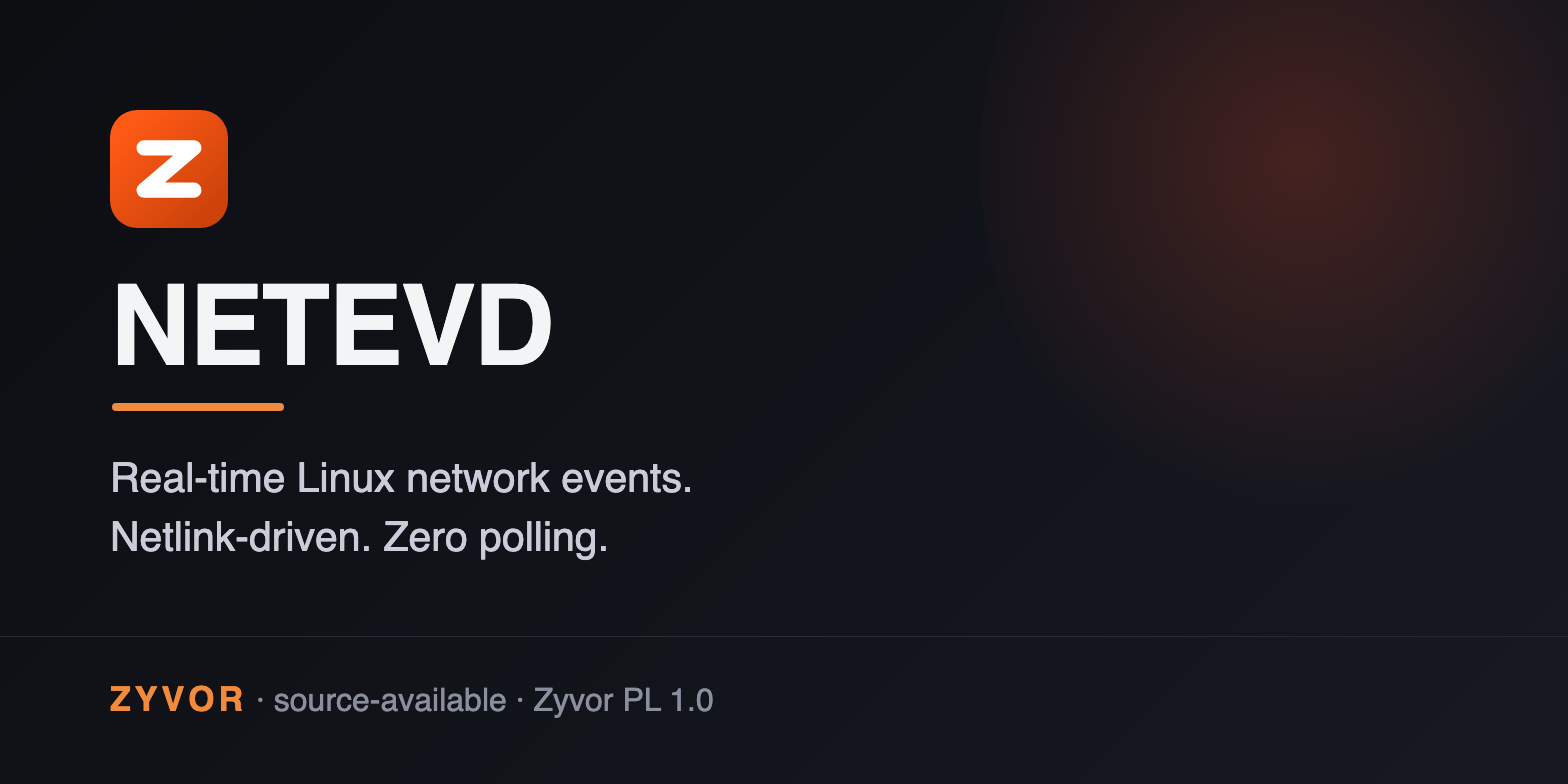
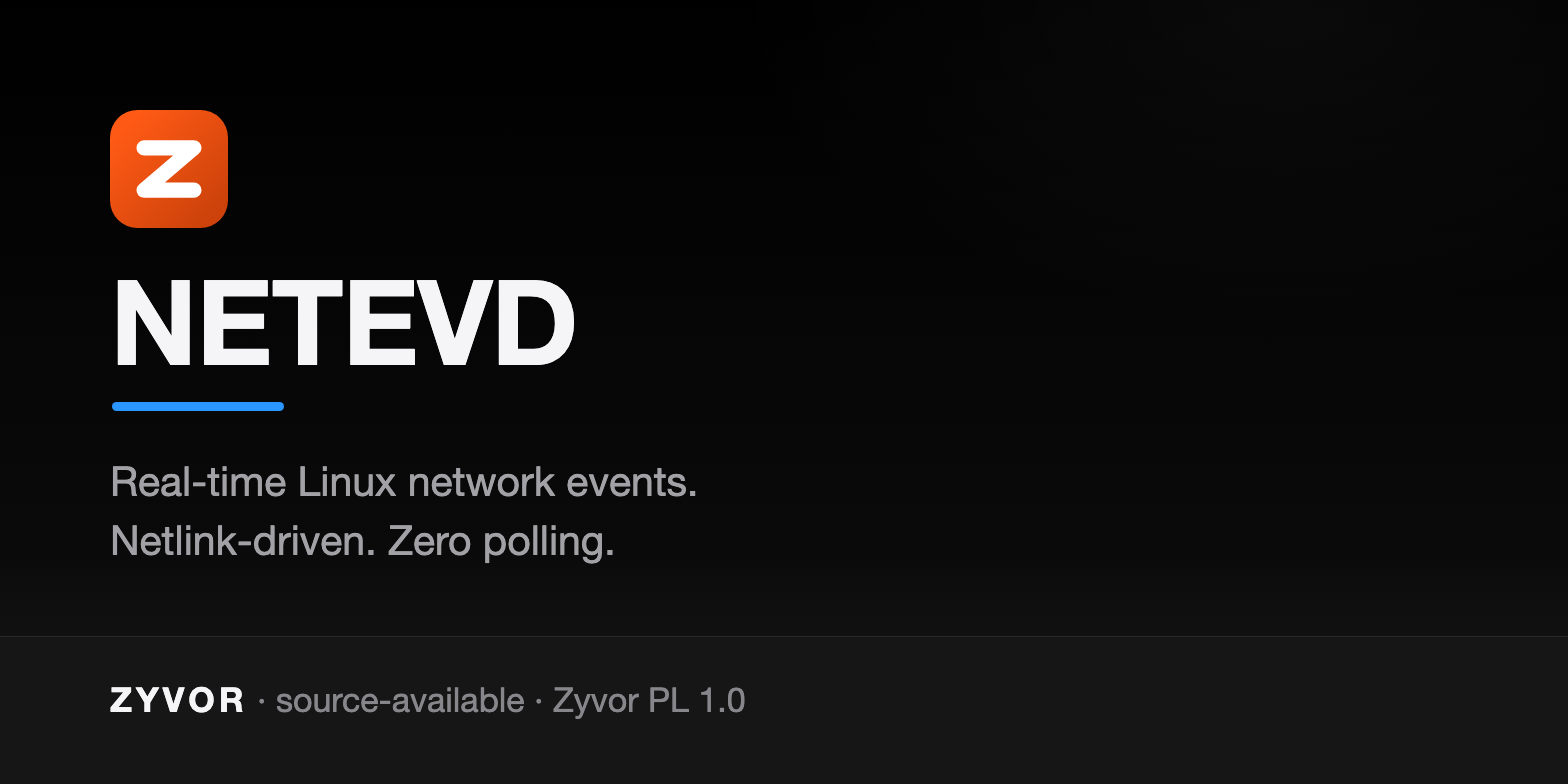
docs: remove community tier, apple-dark social cards

diff --git a/docs/social/netevd-social-card.html b/docs/social/netevd-social-card.html
@@ -4,12 +4,12 @@
 <meta charset="utf-8">
 <title>netevd social card</title>
 <style>
-:root { --ink:#0d0d0c; --soft:#5a544c; --signal:#ff5a15; --deep:#cc420a; --line:#e7ded2; --warm:#fbf7f2; --pale:#fff1e9;
-  --blue:#2b5fd9; --green:#1f7a4d;
+:root { --ink:#f5f5f7; --soft:#86868b; --signal:#2997ff; --btn:#0071e3; --deep:#2997ff; --line:rgba(255,255,255,.08); --warm:#000; --pale:#1d1d1f;
+  --blue:#5e5ce6; --green:#248a3d;
   --sans:'Helvetica Neue',Helvetica,Arial,sans-serif; --mono:'SF Mono',Menlo,Consolas,monospace; }
 * { box-sizing:border-box; }
 html,body { margin:0; padding:0; }
-body { width:1600px; height:900px; overflow:hidden; background:var(--warm); color:var(--ink); font-family:var(--sans); position:relative; }
+body { width:1600px; height:900px; overflow:hidden; background:radial-gradient(900px 520px at 78% 0%,rgba(255,255,255,.04),transparent 62%),#000; color:var(--ink); font-family:var(--sans); position:relative; }
 .bar { position:absolute; left:0; top:0; bottom:0; width:14px; background:var(--signal); }
 .wrap { position:absolute; left:72px; right:64px; top:48px; bottom:40px; display:flex; flex-direction:column; }
 .top { display:flex; align-items:center; gap:14px; font-family:var(--mono); font-size:20px; letter-spacing:.14em; text-transform:uppercase; color:var(--soft); }
@@ -18,9 +18,9 @@ body { width:1600px; height:900px; overflow:hidden; background:var(--warm); colo
 .top .r { margin-left:auto; letter-spacing:.08em; }
 h1 { margin:26px 0 0; font-size:68px; line-height:1.06; letter-spacing:-.025em; font-weight:700; max-width:1440px; }
 h1 em { font-style:normal; color:var(--signal); }
-.sub { margin:16px 0 0; font-size:27px; line-height:1.36; color:#26231f; max-width:1320px; }
+.sub { margin:16px 0 0; font-size:27px; line-height:1.36; color:#a1a1a6; max-width:1320px; }
 .flow { margin-top:34px; display:grid; grid-template-columns:repeat(5,1fr); gap:34px; }
-.step { position:relative; background:#fff; border:2.5px solid var(--c); border-radius:16px; padding:18px 20px 18px 24px; min-height:222px; }
+.step { position:relative; background:#1d1d1f; border:2.5px solid var(--c); border-radius:16px; padding:18px 20px 18px 24px; min-height:222px; }
 .step::before { content:""; position:absolute; left:0; top:0; bottom:0; width:9px; background:var(--c); border-radius:13px 0 0 13px; }
 .step:not(:last-child)::after { content:""; position:absolute; right:-31px; top:50%; width:0; height:0; margin-top:-11px;
   border-left:16px solid var(--soft); border-top:11px solid transparent; border-bottom:11px solid transparent; }
@@ -28,14 +28,14 @@ h1 em { font-style:normal; color:var(--signal); }
 .n { float:right; width:34px; height:34px; border-radius:50%; background:var(--c); color:#fff; font-weight:700; font-size:19px; line-height:34px; text-align:center; }
 .step h3 { margin:14px 0 8px; font-size:27px; line-height:1.14; letter-spacing:-.01em; }
 .step p { margin:0; font-size:20.5px; line-height:1.34; color:var(--soft); }
-.k { --c:var(--signal); } .a { --c:var(--ink); } .c { --c:var(--blue); } .o { --c:var(--green); } .o2 { --c:var(--deep); }
-.attr { margin-top:22px; display:flex; align-items:center; gap:16px; background:var(--ink); color:#f3ede4; border-radius:12px; padding:13px 22px; font-family:var(--mono); font-size:22px; white-space:nowrap; }
+.k { --c:var(--btn); } .a { --c:#86868b; } .c { --c:var(--blue); } .o { --c:var(--green); } .o2 { --c:var(--deep); }
+.attr { margin-top:22px; display:flex; align-items:center; gap:16px; background:#1d1d1f; border:1px solid rgba(255,255,255,.08); color:#f5f5f7; border-radius:12px; padding:13px 22px; font-family:var(--mono); font-size:22px; white-space:nowrap; }
 .attr .tag { color:var(--signal); font-weight:700; letter-spacing:.1em; font-size:16px; }
-.attr .why { margin-left:auto; color:#a39a8d; font-size:15px; letter-spacing:.06em; text-transform:uppercase; }
+.attr .why { margin-left:auto; color:#86868b; font-size:15px; letter-spacing:.06em; text-transform:uppercase; }
 .chips { margin-top:auto; padding-top:22px; display:flex; flex-wrap:wrap; gap:10px; }
-.chip { font-size:20px; font-weight:700; padding:5px 14px; border-radius:20px; background:var(--signal); color:#fff; letter-spacing:.02em; border:2px solid var(--signal); }
-.chip.g { background:#fff; color:var(--deep); border:2px solid var(--signal); }
-.foot { margin-top:18px; padding-top:14px; border-top:3px solid var(--ink); display:flex; align-items:center; font-family:var(--mono); font-size:22px; color:var(--soft); }
+.chip { font-size:20px; font-weight:700; padding:5px 14px; border-radius:20px; background:var(--btn); color:#fff; letter-spacing:.02em; border:2px solid var(--btn); }
+.chip.g { background:#1d1d1f; color:var(--deep); border:2px solid var(--signal); }
+.foot { margin-top:18px; padding-top:14px; border-top:1px solid rgba(255,255,255,.12); display:flex; align-items:center; font-family:var(--mono); font-size:22px; color:var(--soft); }
 .foot b { color:var(--ink); }
 .foot .r { margin-left:auto; }
 </style>

diff --git a/docs/social/netevd-share-card.html b/docs/social/netevd-share-card.html
@@ -4,11 +4,11 @@
 <meta charset="utf-8">
 <title>netevd share card</title>
 <style>
-:root { --ink:#0d0d0c; --soft:#5a544c; --signal:#ff5a15; --deep:#cc420a; --warm:#fbf7f2;
+:root { --ink:#f5f5f7; --soft:#86868b; --signal:#2997ff; --btn:#0071e3; --deep:#2997ff; --warm:#000;
   --sans:'Helvetica Neue',Helvetica,Arial,sans-serif; --mono:'SF Mono',Menlo,Consolas,monospace; }
 * { box-sizing:border-box; }
 html,body { margin:0; padding:0; }
-body { width:1200px; height:630px; overflow:hidden; background:var(--warm); color:var(--ink); font-family:var(--sans); position:relative; }
+body { width:1200px; height:630px; overflow:hidden; background:radial-gradient(900px 520px at 78% 0%,rgba(255,255,255,.04),transparent 62%),#000; color:var(--ink); font-family:var(--sans); position:relative; }
 .bar { position:absolute; left:0; top:0; bottom:0; width:12px; background:var(--signal); }
 .wrap { position:absolute; left:56px; right:48px; top:40px; bottom:36px; display:flex; flex-direction:column; }
 .top { display:flex; align-items:center; gap:12px; font-family:var(--mono); font-size:18px; letter-spacing:.14em; text-transform:uppercase; color:var(--soft); }
@@ -17,11 +17,11 @@ body { width:1200px; height:630px; overflow:hidden; background:var(--warm); colo
 .top .r { margin-left:auto; letter-spacing:.08em; }
 h1 { margin:36px 0 0; font-size:52px; line-height:1.08; letter-spacing:-.025em; font-weight:700; max-width:1080px; }
 h1 em { font-style:normal; color:var(--signal); }
-.sub { margin:18px 0 0; font-size:24px; line-height:1.4; color:#26231f; max-width:980px; }
+.sub { margin:18px 0 0; font-size:24px; line-height:1.4; color:#a1a1a6; max-width:980px; }
 .chips { margin-top:auto; display:flex; flex-wrap:wrap; gap:10px; padding-bottom:18px; }
-.chip { font-size:18px; font-weight:700; padding:6px 14px; border-radius:20px; background:var(--signal); color:#fff; border:2px solid var(--signal); }
-.chip.g { background:#fff; color:var(--deep); border:2px solid var(--signal); }
-.foot { padding-top:14px; border-top:3px solid var(--ink); display:flex; align-items:center; font-family:var(--mono); font-size:20px; color:var(--soft); }
+.chip { font-size:18px; font-weight:700; padding:6px 14px; border-radius:20px; background:var(--btn); color:#fff; border:2px solid var(--btn); }
+.chip.g { background:#1d1d1f; color:var(--deep); border:2px solid var(--signal); }
+.foot { padding-top:14px; border-top:1px solid rgba(255,255,255,.12); display:flex; align-items:center; font-family:var(--mono); font-size:20px; color:var(--soft); }
 .foot b { color:var(--ink); }
 .foot .r { margin-left:auto; }
 </style>

diff --git a/docs/social/netevd-preview.html b/docs/social/netevd-preview.html
@@ -1,0 +1,21 @@
+<!doctype html>
+<html lang="en"><head><meta charset="utf-8"><title>NETEVD social preview</title>
+<style>
+* { box-sizing:border-box; }
+html,body { margin:0; padding:0; }
+body { width:1568px; height:784px; overflow:hidden; position:relative; color:#f5f5f7;
+  font-family:'Helvetica Neue',Helvetica,Arial,sans-serif;
+  background:radial-gradient(900px 520px at 82% 0%,rgba(255,255,255,.04),transparent 62%),linear-gradient(180deg,#000 0%,#0a0a0b 70%,#1d1d1f 100%); }
+.mark { position:absolute; left:110px; top:110px; width:118px; height:118px; }
+h1 { position:absolute; left:110px; top:262px; margin:0; font-size:118px; line-height:1; font-weight:700; letter-spacing:-.01em; }
+.rule { position:absolute; left:112px; top:402px; width:172px; height:9px; border-radius:5px; background:#2997ff; }
+p { position:absolute; left:110px; top:452px; margin:0; font-size:41px; line-height:59px; color:#a1a1a6; }
+.foot { position:absolute; left:0; right:0; bottom:0; height:148px; border-top:1px solid rgba(255,255,255,.08); background:#161617; }
+.foot div { position:absolute; left:110px; top:42px; font-size:34px; color:#86868b; }
+.foot b { color:#f5f5f7; letter-spacing:.12em; font-size:34px; }
+</style></head><body>
+<svg class="mark" viewBox="0 0 64 64" aria-hidden="true"><defs><linearGradient id="zb" x1="8" y1="8" x2="56" y2="56" gradientUnits="userSpaceOnUse"><stop offset="0" stop-color="#ff5a15"/><stop offset="1" stop-color="#cc420a"/></linearGradient></defs><rect width="64" height="64" rx="15" fill="url(#zb)"/><path d="M18.5,20.5 45.5,20.5 18.5,43.5 45.5,43.5" fill="none" stroke="#fff" stroke-width="8.3" stroke-linecap="round" stroke-linejoin="round"/></svg>
+<h1>NETEVD</h1><div class="rule"></div>
+<p>Real-time Linux network events.<br>Netlink-driven. Zero polling.</p>
+<div class="foot"><div><b>ZYVOR</b> &middot; source-available &middot; Zyvor PL 1.0</div></div>
+</body></html>

diff --git a/README.md b/README.md
@@ -68,7 +68,7 @@ Version 0.4.1 ([CHANGELOG.md](CHANGELOG.md)):
 | Latency | &lt;100 ms netlink · zero polling |
 | eBPF | Opt-in observe-only: drops / TCP retransmit / TCP reset |
 | Ops | Policy routing · REST `:9090` · Prometheus `/metrics` |
-| License | Zyvor Production License 1.0 (free non-production) |
+| License | Zyvor Production License 1.0 (commercial license required; 30-day trial key) |
 
 ```mermaid
 flowchart LR
@@ -251,11 +251,9 @@ cargo build && cargo test && cargo clippy -- -D warnings
 
 ## Enterprise
 
-| | Community (this repo) | Enterprise |
-|---|----------------------|------------|
-| Support | [GitHub Issues](https://github.com/zyvorai/zyvor-netevd/issues) | SLA · [sales@zyvor.dev](mailto:sales@zyvor.dev) |
-| Scope | Self-hosted hooks + policy routing | Production rollouts, platform integration |
-| Platform | netevd | netctl, cloud-netconfig, Zyvor Platform |
+- **Support:** SLA · [sales@zyvor.dev](mailto:sales@zyvor.dev)
+- **Scope:** self-hosted hooks + policy routing, production rollouts, platform integration
+- **Platform:** netevd, netctl, cloud-netconfig, Zyvor Platform
 
 [Demo](https://zyvor.dev/demo?utm_source=github&utm_medium=netevd&utm_campaign=readme_edition) · [Pricing](https://zyvor.dev/pricing?utm_source=github&utm_medium=netevd&utm_campaign=readme_edition) · [Contact](https://zyvor.dev/contact?utm_source=github&utm_medium=netevd&utm_campaign=readme_edition) · [docs/enterprise.md](docs/enterprise.md)
 
@@ -263,7 +261,7 @@ cargo build && cargo test && cargo clippy -- -D warnings
 
 [Book a demo](https://zyvor.dev/schedule?utm_source=github&utm_medium=netevd&utm_campaign=readme_footer) · [30-day PoC](https://zyvor.dev/poc?utm_source=github&utm_medium=netevd&utm_campaign=readme_footer) · fallback: [sales@zyvor.dev](mailto:sales@zyvor.dev)
 
-Maintained by **Susant Sahani** · [Zyvor AI Labs](https://zyvor.dev/?utm_source=github&utm_medium=netevd&utm_campaign=readme_footer). Community help: [Issues](https://github.com/zyvorai/zyvor-netevd/issues) · [SECURITY.md](SECURITY.md).
+Maintained by **Susant Sahani** · [Zyvor AI Labs](https://zyvor.dev/?utm_source=github&utm_medium=netevd&utm_campaign=readme_footer). Issues: [Issues](https://github.com/zyvorai/zyvor-netevd/issues) · [SECURITY.md](SECURITY.md).
 
 ---
 
@@ -299,7 +297,7 @@ Enterprise rollouts cover netevd together with netctl and cloud-netconfig.
 
 ## Donate
 
-Non-production use is free under the Zyvor Production License v1.0; production use requires a commercial license (sales@zyvor.dev). If it helps you, you can donate any amount you like: <https://zyvor.dev/donate>. A donation is voluntary and supports development and maintenance. It is not a purchase: it buys no support, SLA, features, priority or license, and it is not tax-deductible (Zyvor AI Labs Private Limited is a company, not a charity). Support contracts are separate: [sales@zyvor.dev](mailto:sales@zyvor.dev).
+A commercial license is required to run it (sales@zyvor.dev); a 30-day trial key is how to evaluate. If it helps you, you can donate any amount you like: <https://zyvor.dev/donate>. A donation is voluntary and supports development and maintenance. It is not a purchase: it buys no support, SLA, features, priority or license, and it is not tax-deductible (Zyvor AI Labs Private Limited is a company, not a charity). Support contracts are separate: [sales@zyvor.dev](mailto:sales@zyvor.dev).
 
 ## License
 

diff --git a/docs/FAQ.md b/docs/FAQ.md
@@ -10,17 +10,15 @@ FAQ covers what that section doesn't.
 
 ## Licensing & cost
 
-**Is the Community Edition really free?** For non-production use, yes: evaluation,
-development, testing, research and education are free under the Zyvor Production
-License v1.0. Production use requires a commercial license (sales@zyvor.dev,
-https://zyvor.dev/buy).
+**Do I need a license?** Yes. Running netevd requires a commercial license under the
+Zyvor Production License v1.0 (sales@zyvor.dev, https://zyvor.dev/buy; a 30-day
+trial key is how to evaluate).
 See the README's [License](https://github.com/zyvorai/netevd#license) section.
 
-**What's the difference between Community and Enterprise?** See the
+**What does the Enterprise license include?** See the
 README's [Enterprise](https://github.com/zyvorai/netevd#enterprise) section and
-[`docs/enterprise.md`](enterprise.md) for the full comparison table —
-briefly: Community is the self-hosted daemon with GitHub Issues support;
-Enterprise adds SLA-backed support and the broader HyperSDK
+[`docs/enterprise.md`](enterprise.md) —
+briefly: the self-hosted daemon, SLA-backed support and the broader HyperSDK
 platform (`netctl`, `cloud-netconfig`).
 
 ## Support
@@ -31,8 +29,8 @@ platform (`netctl`, `cloud-netconfig`).
 for private reporting to legal@zyvor.dev — response SLA is documented
 there (initial response within 48 hours; critical fixes within 7 days).
 
-**Is there a support SLA for Community Edition?** No — that's specifically
-what the Enterprise tier adds. Community support is via GitHub Issues.
+**Is there a support SLA?** SLA-backed support is part of the Enterprise
+license (sales@zyvor.dev). Bugs are tracked via GitHub Issues.
 
 ## Production readiness
 

diff --git a/docs/SUBSCRIPTION-MODEL.md b/docs/SUBSCRIPTION-MODEL.md
@@ -1,17 +1,16 @@
 # netevd: support subscriptions
 
-netevd is source-available software. Non-production use is free under the Zyvor Production License v1.0; production use requires a commercial license (sales@zyvor.dev).
+netevd is source-available software. A commercial license is required to run it (sales@zyvor.dev); a 30-day trial key is how to evaluate.
 
 Teams that want supported releases and defined response targets can buy an annual **support subscription** from Zyvor.
 
 | Plan | What you get | Coverage |
 |------|--------------|----------|
-| Community | The software, community documentation and public issue tracking | No contracted response target |
 | Standard | Deployment and upgrade guidance, defined supported configuration | Business hours |
 | Supported | Standard plus priority queue and incident triage | Business hours, faster response |
 | Enterprise | Supported plus a named technical contact and 24x7 critical intake | One-hour initial response target for critical issues |
 
-Rates (one meter, no stacking): the Zyvor Support meter is per worker node per year and covers all Zyvor infrastructure software on a covered node; non-production use of the software stays free; production use requires a commercial license.
+Rates (one meter, no stacking): the Zyvor Support meter is per worker node per year and covers all Zyvor infrastructure software on a covered node; a commercial license is required to run the software.
 
 | Tier | Rest of world (USD, excl. tax) | India (INR, incl. 18% GST) | Minimum |
 |------|-------------------------------|----------------------------|---------|

diff --git a/docs/index.md b/docs/index.md
@@ -12,7 +12,7 @@ hero:
     - {value: "9", label: "REST API endpoints", footnote: "3"}
   hub_bands:
     - {icon: "❓", title: "FAQ", description: "Licensing, support, production readiness, and platform questions.", href: FAQ.md}
-    - {icon: "🏢", title: "Community Edition vs Enterprise", description: "Feature and support comparison.", href: enterprise.md}
+    - {icon: "🏢", title: "Enterprise license", description: "What the license includes.", href: enterprise.md}
     - {icon: "📘", title: "User documentation", description: "Installation, CLI, hooks, and the operator surfaces.", href: user/README.md}
     - {icon: "📡", title: "Observe-only eBPF", description: "Packet drops, TCP retransmit, and TCP reset hooks.", href: user/ebpf.md}
     - {icon: "🖥", title: "Using the operator surfaces", description: "CLI, REST API, Prometheus, and journal-based operation.", href: user/using-the-dashboard.md}
@@ -42,7 +42,7 @@ See the full [README on GitHub](https://github.com/zyvorai/netevd) for the compl
 ## Start here
 
 - [FAQ](FAQ.md) — licensing, support, production readiness, and platform questions
-- [Community Edition vs Enterprise](enterprise.md) — feature and support comparison
+- [Enterprise license](enterprise.md) — what the license includes
 - [User documentation](user/README.md) — installation, CLI, hooks, and the operator surfaces
 - [Using the operator surfaces](user/using-the-dashboard.md) — CLI, REST API, Prometheus, and journal-based operation
 - [Getting started](user/getting-started.md) — install netevd and fire your first hook

diff --git a/docs/enterprise.md b/docs/enterprise.md
@@ -1,13 +1,13 @@
 ---
 hero:
   eyebrow: ENTERPRISE
-  title: Community Edition vs Enterprise
+  title: What the Enterprise license includes
 ---
 
-| | Community Edition (this repo) | Enterprise ([zyvor.dev](https://zyvor.dev/?utm_source=github&utm_medium=netevd)) |
-|---|------------------------------|-------------------------------------------------------------------------------------|
-| **Support** | [GitHub Issues](https://github.com/zyvorai/netevd/issues) | SLA, [sales@zyvor.dev](mailto:sales@zyvor.dev), professional services |
-| **Scope** | Self-hosted event hooks | Production rollouts, platform integration |
-| **Platform** | netevd daemon | Full networking stack with netctl, cloud-netconfig, HyperSDK |
+netevd is licensed commercially ([zyvor.dev](https://zyvor.dev/?utm_source=github&utm_medium=netevd)). A license includes:
+
+- **Support:** SLA-backed support, [sales@zyvor.dev](mailto:sales@zyvor.dev), professional services
+- **Scope:** self-hosted event hooks, production rollouts, platform integration
+- **Platform:** the netevd daemon, plus the full networking stack with netctl, cloud-netconfig, HyperSDK
 
 **Next steps:** [Demo](https://zyvor.dev/demo?utm_source=github&utm_medium=netevd) · [ROI](https://zyvor.dev/roi?utm_source=github&utm_medium=netevd) · [Pricing](https://zyvor.dev/pricing?utm_source=github&utm_medium=netevd) · [Contact](https://zyvor.dev/contact?utm_source=github&utm_medium=netevd)

diff --git a/docs/ROADMAP.md b/docs/ROADMAP.md
@@ -8,7 +8,7 @@ Repo: https://github.com/zyvorai/netevd
 Status checked: 2026-09-07 — no open PRs, no open issues on zyvorai/netevd.  
 Current surface: netlink watchers (addr/link/route), systemd-networkd / NetworkManager / dhclient backends, hook dirs, automatic policy routing, Axum REST + Prometheus, privilege drop + CAP_NET_ADMIN.
 
-This pack is a single PR *plan*, not a dump of unrelated ideas. Keep Community Edition small. Push SLA / multi-cluster / GUI into Enterprise.
+This pack is a single PR *plan*, not a dump of unrelated ideas. Keep netevd small. Push SLA / multi-cluster / GUI into Enterprise.
 
 ---
 
@@ -139,7 +139,7 @@ Web UI beyond a tiny status page. Machina/Fabric already own glass UI.
 
 ---
 
-## Do **not** add in Community (or park as Enterprise)
+## Do **not** add to netevd (or park as Enterprise)
 
 | Idea | Why not now |
 |------|-------------|

diff --git a/docs/user/ebpf-ringbuf.md b/docs/user/ebpf-ringbuf.md
@@ -40,6 +40,6 @@ netevd_ebpf_attached
 Install `systemd/netevd-ebpf.conf` as
 `/etc/systemd/system/netevd.service.d/ebpf.conf`.
 
-## Still not in Community
+## Still not in netevd
 
 XDP shield, cgroup deny, DNS qname, process `comm` — that is Netra.
